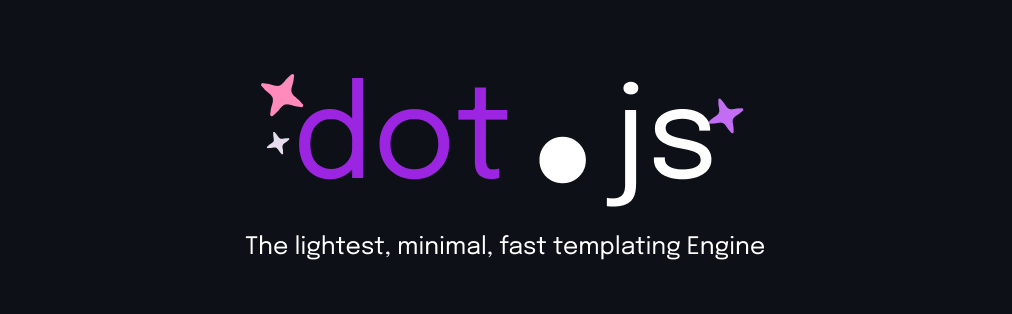
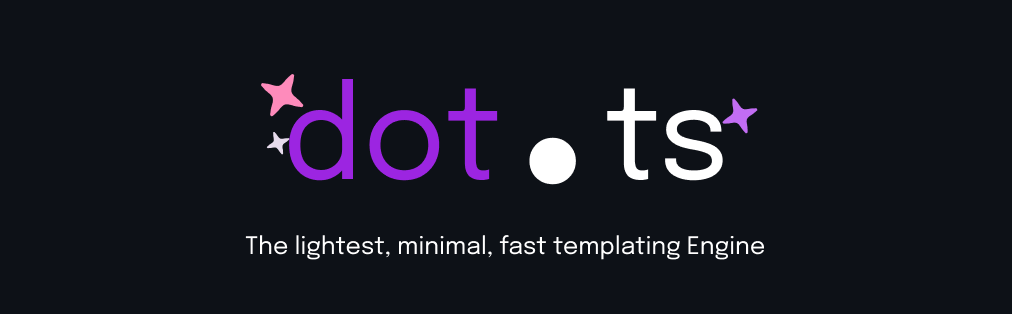
refactor: renamed everything to dot.ts

Changed region(s): [[0.2757, 0.2293, 0.582, 0.6019], [0.582, 0.258, 0.7658, 0.6592]]

diff --git a/README.md b/README.md
@@ -1,16 +1,16 @@
 ![dot.js](_docs/banner.png)
 
-<h1 align="center">dot.js</h1>
+<h1 align="center">dot.ts</h1>
 
 <div align="center">
-        <a href="https://www.npmjs.com/package/dot.js" target="_blank">
-          <img src="https://img.shields.io/npm/dw/dot.js?style=for-the-badge" alt="NPM Downloads"></img></a>
-        <img src="https://img.shields.io/bundlephobia/minzip/dot.js?style=for-the-badge" alt="NPM Bundle Size" ></img>
+        <a href="https://www.npmjs.com/package/dot.ts" target="_blank">
+          <img src="https://img.shields.io/npm/dw/dot.ts?style=for-the-badge" alt="NPM Downloads"></img></a>
+        <img src="https://img.shields.io/bundlephobia/minzip/dot.ts?style=for-the-badge" alt="NPM Bundle Size" ></img>
           <img src="https://img.shields.io/badge/maintained%20with-bun-cc00ff.svg?style=for-the-badge&logo=bun)](https://bun.sh/" alt="Bun"></img>
     <img src="https://img.shields.io/npm/l/vike-metadata-react?style=for-the-badge" alt="NPM License"></img>
 </div>
 
-dot.js is a template engine for JavaScript. It is similar to Mustache, EJS, Handlebars, and many others. This is a fork of the original [doT.js](https://github.com/olado/doT) template engine.
+dot.ts is a template engine for JavaScript. It is similar to Mustache, EJS, Handlebars, and many others. This is a fork of the original [doT.js](https://github.com/olado/doT) template engine.
 
 ## Features
 
@@ -30,14 +30,14 @@ The only new changes after the fork are:
 ### JS/TS Projects
 
 ```sh
-npm install dot.js
+npm install dot.ts
 ```
 
 ### Browser-only
 
 ```html
 <head>
-  <script src="https://cdn.jsdelivr.net/npm/dot.js@latest/dist/index.global.js"></script>
+  <script src="https://cdn.jsdelivr.net/npm/dot.ts@latest/dist/index.global.js"></script>
 </head>
 ```
 
@@ -46,7 +46,7 @@ npm install dot.js
 ### JS/TS Projects
 
 ```ts
-import dotjs from "dot.js";
+import dotjs from "dot.ts";
 
 const template = `
   <div class="container">
